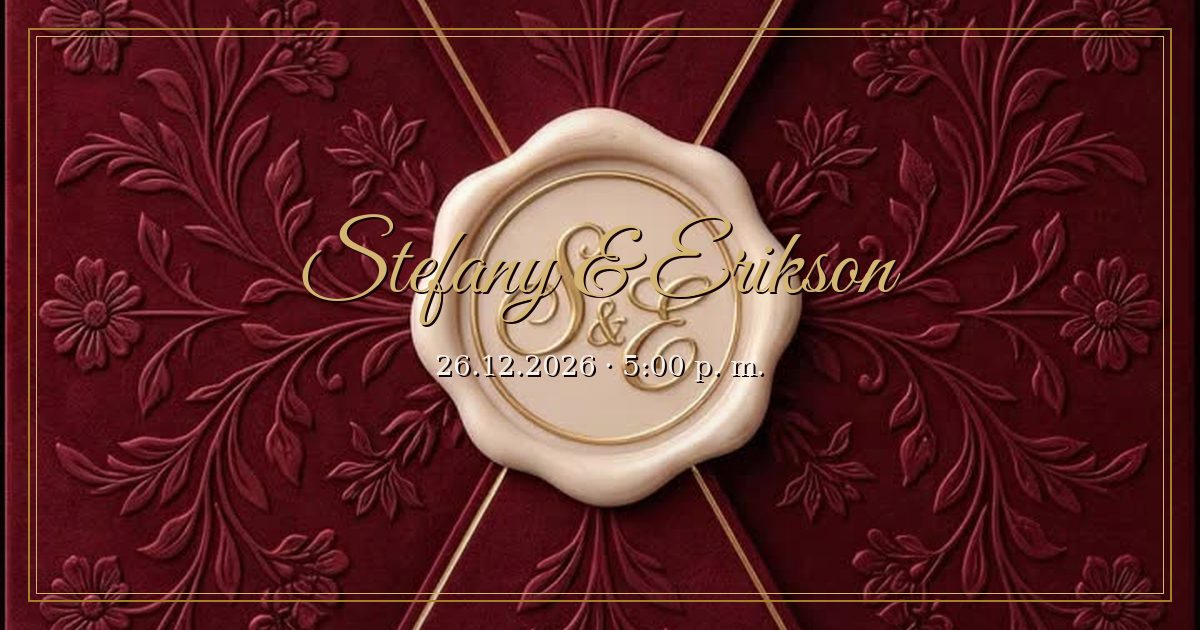
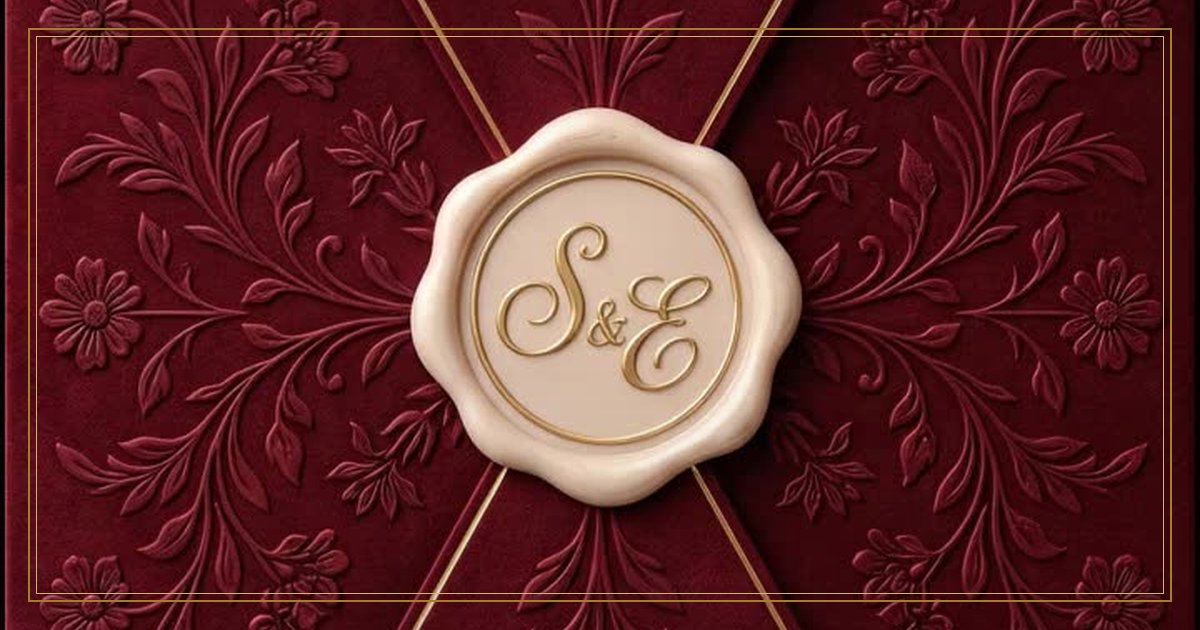
Pulir Confirmación, OG sin texto y enlaces listos para WhatsApp.
Ajusta la vid responsive, el margen del sello, dress-code y previews con URL ?i=.

Changed region(s): [[0.2467, 0.3317, 0.7708, 0.5127], [0.37, 0.5429, 0.6475, 0.6032]]

diff --git a/404.html b/404.html
@@ -15,15 +15,17 @@
     <meta property="og:title" content="Stefany & Erikson — 26.12.2026">
     <meta property="og:description" content="Te invitamos a celebrar nuestra boda · 26 de diciembre de 2026 · 5:00 p. m.">
     <meta property="og:url" content="https://deverik-98.github.io/s-and-e/">
-    <meta property="og:image" content="https://deverik-98.github.io/s-and-e/assets/img/og-share.jpg">
+    <meta property="og:image" content="https://deverik-98.github.io/s-and-e/assets/img/og-share.jpg?v=47">
+    <meta property="og:image:secure_url" content="https://deverik-98.github.io/s-and-e/assets/img/og-share.jpg?v=47">
     <meta property="og:image:type" content="image/jpeg">
     <meta property="og:image:width" content="1200">
     <meta property="og:image:height" content="630">
-    <meta property="og:image:alt" content="Invitación de boda de Stefany y Erikson">
+    <meta property="og:image:alt" content="Invitación de boda Stefany y Erikson">
+    <link rel="image_src" href="https://deverik-98.github.io/s-and-e/assets/img/og-share.jpg?v=47">
     <meta name="twitter:card" content="summary_large_image">
     <meta name="twitter:title" content="Stefany & Erikson — 26.12.2026">
     <meta name="twitter:description" content="Te invitamos a celebrar nuestra boda · 26 de diciembre de 2026 · 5:00 p. m.">
-    <meta name="twitter:image" content="https://deverik-98.github.io/s-and-e/assets/img/og-share.jpg">
+    <meta name="twitter:image" content="https://deverik-98.github.io/s-and-e/assets/img/og-share.jpg?v=47">
     <script>
       window.SE = window.SE || {};
       SE.base = /github\.io$/i.test(location.hostname) ? "/s-and-e/" : "/";
@@ -54,7 +56,7 @@
     <link rel="preconnect" href="https://script.google.com">
     <link rel="preconnect" href="https://script.googleusercontent.com">
     <link rel="stylesheet" href="https://fonts.googleapis.com/css2?family=Cinzel:wght@400;500;600&family=Cormorant+Garamond:ital,wght@0,400;0,500;0,600;1,500;1,600&family=Ovo&display=swap">
-    <link rel="stylesheet" href="css/styles.css?v=45">
+    <link rel="stylesheet" href="css/styles.css?v=47">
   </head>
   <body>
     <a class="skip" href="#site">Skip</a>
@@ -208,7 +210,7 @@
             <p data-i18n="dressBody"></p>
           </div>
           <div class="notes-block notes-attire">
-            <img class="dress-code-img" src="assets/img/dress-code.webp?v=38" width="1132" height="844" alt="" decoding="async">
+            <img class="dress-code-img" src="assets/img/dress-code.webp?v=46" width="283" height="211" alt="" decoding="async">
           </div>
         </div>
       </section>
@@ -262,8 +264,8 @@
     <audio id="ambiente" preload="auto" loop>
       <source src="assets/audio/ambiente.m4a" type="audio/mp4">
     </audio>
-    <script src="js/config.js?v=45" defer></script>
-    <script src="js/i18n.js?v=45" defer></script>
-    <script src="js/app.js?v=45" defer></script>
+    <script src="js/config.js?v=47" defer></script>
+    <script src="js/i18n.js?v=47" defer></script>
+    <script src="js/app.js?v=47" defer></script>
   </body>
 </html>

diff --git a/index.html b/index.html
@@ -15,15 +15,17 @@
     <meta property="og:title" content="Stefany & Erikson — 26.12.2026">
     <meta property="og:description" content="Te invitamos a celebrar nuestra boda · 26 de diciembre de 2026 · 5:00 p. m.">
     <meta property="og:url" content="https://deverik-98.github.io/s-and-e/">
-    <meta property="og:image" content="https://deverik-98.github.io/s-and-e/assets/img/og-share.jpg">
+    <meta property="og:image" content="https://deverik-98.github.io/s-and-e/assets/img/og-share.jpg?v=47">
+    <meta property="og:image:secure_url" content="https://deverik-98.github.io/s-and-e/assets/img/og-share.jpg?v=47">
     <meta property="og:image:type" content="image/jpeg">
     <meta property="og:image:width" content="1200">
     <meta property="og:image:height" content="630">
-    <meta property="og:image:alt" content="Invitación de boda de Stefany y Erikson">
+    <meta property="og:image:alt" content="Invitación de boda Stefany y Erikson">
+    <link rel="image_src" href="https://deverik-98.github.io/s-and-e/assets/img/og-share.jpg?v=47">
     <meta name="twitter:card" content="summary_large_image">
     <meta name="twitter:title" content="Stefany & Erikson — 26.12.2026">
     <meta name="twitter:description" content="Te invitamos a celebrar nuestra boda · 26 de diciembre de 2026 · 5:00 p. m.">
-    <meta name="twitter:image" content="https://deverik-98.github.io/s-and-e/assets/img/og-share.jpg">
+    <meta name="twitter:image" content="https://deverik-98.github.io/s-and-e/assets/img/og-share.jpg?v=47">
     <script>
       window.SE = window.SE || {};
       SE.base = /github\.io$/i.test(location.hostname) ? "/s-and-e/" : "/";
@@ -54,7 +56,7 @@
     <link rel="preconnect" href="https://script.google.com">
     <link rel="preconnect" href="https://script.googleusercontent.com">
     <link rel="stylesheet" href="https://fonts.googleapis.com/css2?family=Cinzel:wght@400;500;600&family=Cormorant+Garamond:ital,wght@0,400;0,500;0,600;1,500;1,600&family=Ovo&display=swap">
-    <link rel="stylesheet" href="css/styles.css?v=45">
+    <link rel="stylesheet" href="css/styles.css?v=47">
   </head>
   <body>
     <a class="skip" href="#site">Skip</a>
@@ -208,7 +210,7 @@
             <p data-i18n="dressBody"></p>
           </div>
           <div class="notes-block notes-attire">
-            <img class="dress-code-img" src="assets/img/dress-code.webp?v=38" width="1132" height="844" alt="" decoding="async">
+            <img class="dress-code-img" src="assets/img/dress-code.webp?v=46" width="283" height="211" alt="" decoding="async">
           </div>
         </div>
       </section>
@@ -262,8 +264,8 @@
     <audio id="ambiente" preload="auto" loop>
       <source src="assets/audio/ambiente.m4a" type="audio/mp4">
     </audio>
-    <script src="js/config.js?v=45" defer></script>
-    <script src="js/i18n.js?v=45" defer></script>
-    <script src="js/app.js?v=45" defer></script>
+    <script src="js/config.js?v=47" defer></script>
+    <script src="js/i18n.js?v=47" defer></script>
+    <script src="js/app.js?v=47" defer></script>
   </body>
 </html>

diff --git a/css/styles.css b/css/styles.css
@@ -1411,11 +1411,18 @@ a {
 }
 
 .rsvp-board {
-  --board-h: 560px;
-  min-height: 560px;
+  --board-h: 420px;
+  min-height: 420px;
   height: auto;
   overflow: visible;
   background: transparent;
+  padding-bottom: 20px;
+  transition: min-height 0.25s var(--ease);
+}
+
+.rsvp-section.is-picking .rsvp-board {
+  --board-h: 560px;
+  min-height: 0;
   padding-bottom: 36px;
 }
 
@@ -1428,7 +1435,7 @@ a {
   width: 744px;
   max-width: none;
   height: auto;
-  min-height: calc(100% + 48px);
+  min-height: calc(100% - 15px);
   object-fit: fill;
   object-position: center top;
   transform: translateX(-50%);
@@ -1449,20 +1456,25 @@ a {
   max-width: none;
 }
 
+/*
+  Same board coords pattern as notes .card-vine-l:
+  desktop 450col left -70 w251; mobile maps inward to left -15
+  (vine-l.webp is top-left oriented — swayL only, no 274deg)
+*/
 .rsvp-vine-l {
-  top: -6px;
+  top: -8px;
   left: -70px;
   width: 251px;
 }
 
 .rsvp-vine-l img {
-  transform-origin: center center;
-  animation: swayVineL 6s infinite linear;
+  transform-origin: 15% 10%;
+  animation: swayL 4s infinite linear;
 }
 
 @container board-wrap (max-width: 449.98px) {
   .rsvp-board .rsvp-vine-l {
-    top: 0;
+    top: -4px;
     left: -15px;
     width: 251px;
   }
@@ -1473,9 +1485,13 @@ a {
   z-index: 2;
   width: 450px;
   margin: 0 auto;
-  padding: 64px 28px 28px;
+  padding: 56px 28px 16px;
   text-align: center;
   box-sizing: border-box;
+}
+
+.rsvp-section.is-picking .rsvp-content {
+  padding-bottom: 28px;
 }
 
 .rsvp-status {
@@ -1504,6 +1520,10 @@ a {
   font-weight: 300;
   color: var(--gold);
   animation: bob 1.1s infinite linear;
+}
+
+.rsvp-section.is-picking .seal-hint {
+  display: none;
 }
 
 @keyframes waxIn {

diff --git a/js/app.js b/js/app.js
@@ -227,9 +227,11 @@
 
   function renderRsvp() {
     const box = $("#rsvp-party");
+    const section = $("#rsvp");
     const canRespond = rsvpCanRespond();
     const showPicker = canRespond && state.picking;
 
+    section?.classList.toggle("is-picking", showPicker);
     if (box) box.classList.toggle("is-hidden", !showPicker);
     if (showPicker) renderParty(box);
     setRsvpStatusText();
@@ -668,7 +670,7 @@
         renderRsvp();
         return;
       }
-      state.picking = true;
+      state.picking = !state.picking;
       renderRsvp();
     });
     $("#lang-toggle").addEventListener("click", () => {

diff --git a/js/config.js b/js/config.js
@@ -44,7 +44,9 @@ SE.config = {
 };
 
 SE.inviteUrl = function inviteUrl(code) {
+  // Query form returns HTTP 200 (needed for WhatsApp/Open Graph previews).
+  // Path form /nos-casamos/CODE still works for guests via 404.html, but scrapers often skip 404.
   const base = SE.config.pagesUrl.replace(/\/+$/, "");
-  const slug = SE.config.inviteSlug;
-  return `${base}/${slug}/${encodeURIComponent(code)}`;
+  const param = SE.config.codeParam || "i";
+  return `${base}/?${param}=${encodeURIComponent(code)}`;
 };
